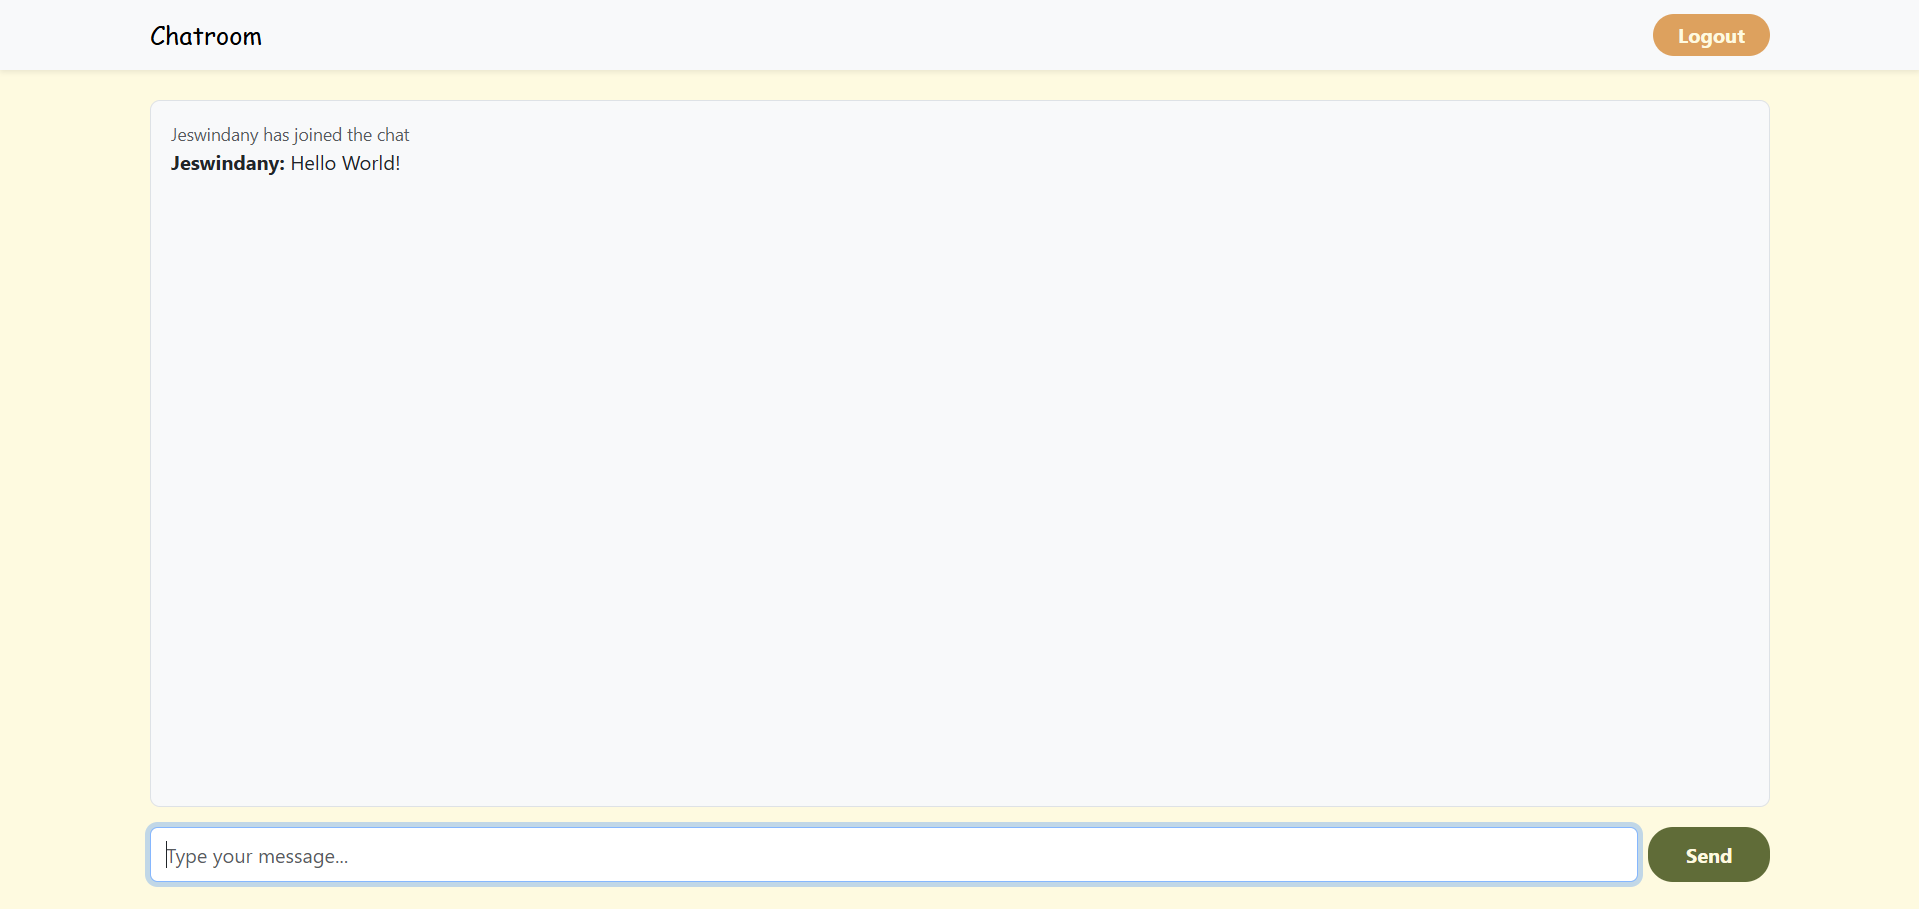
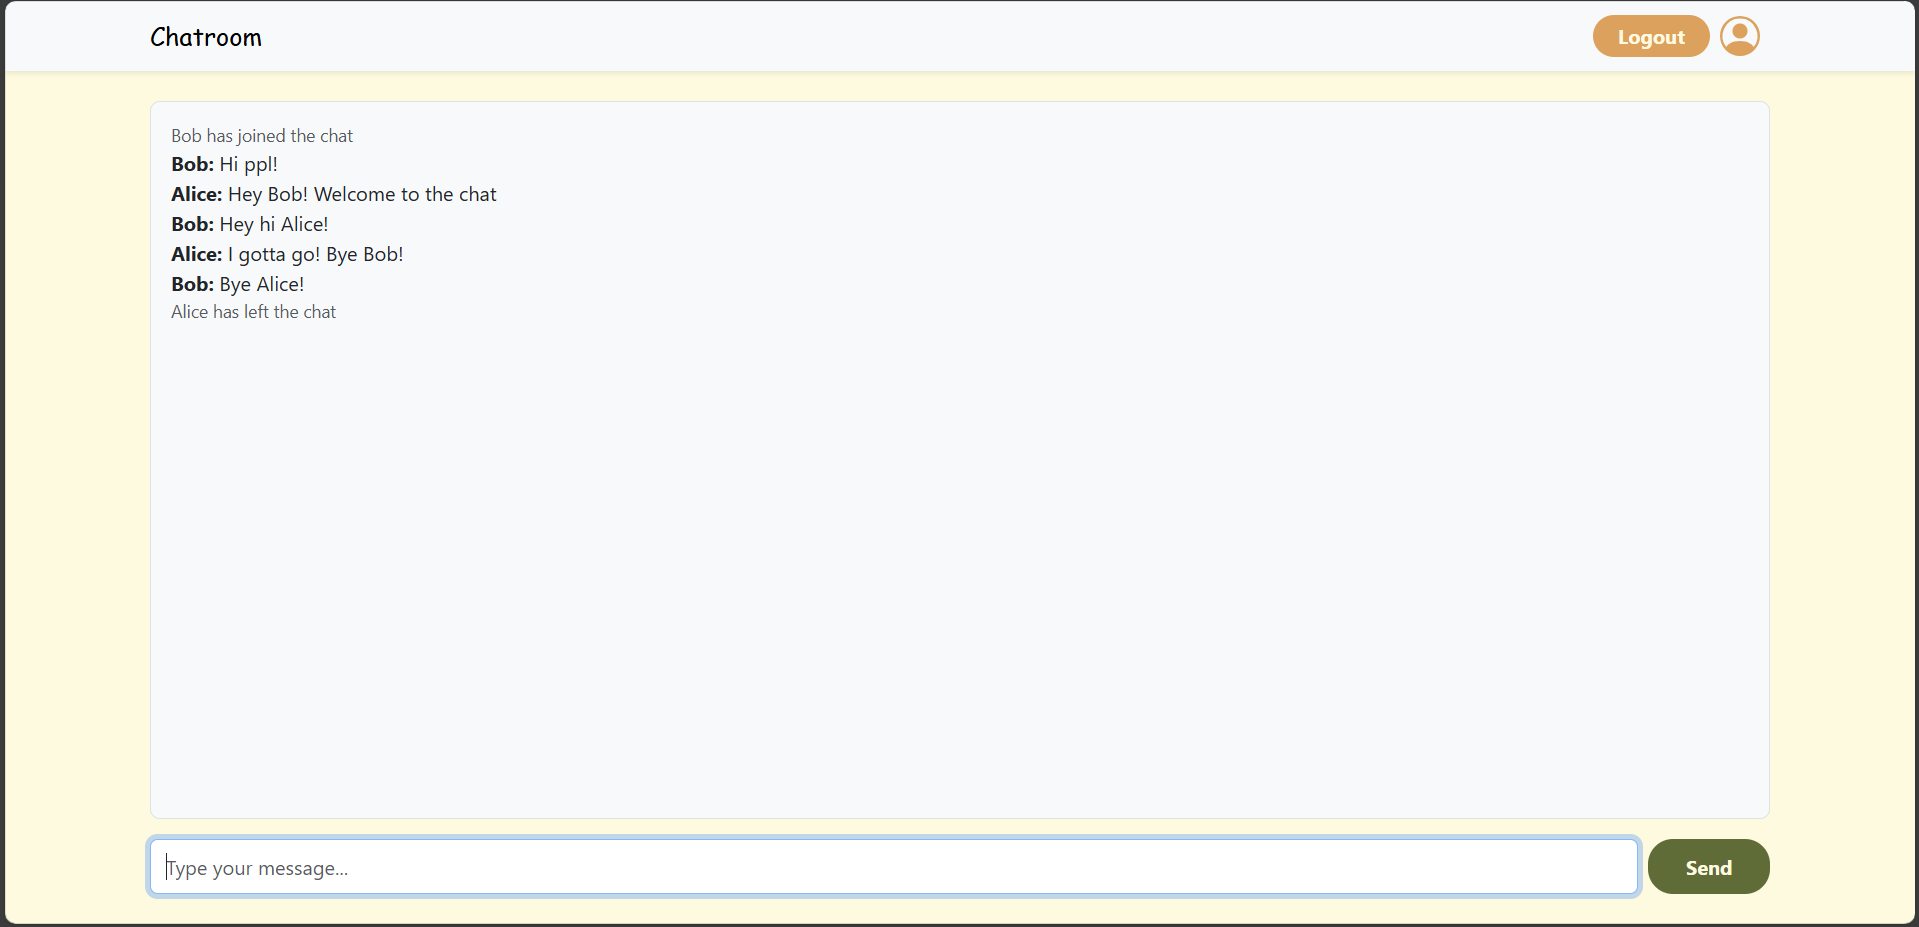
Add forgot password and change name features

diff --git a/app.js b/app.js
@@ -35,10 +35,10 @@ app.use(
     secret: process.env.SECRET,
     resave: false,
     saveUninitialized: false,
-    store: MongoStore.create({
-      mongoUrl: process.env.MONGO_URL,
-      collectionName: "sessions",
-    }),
+    // store: MongoStore.create({
+    //   mongoUrl: process.env.MONGO_URL,
+    //   collectionName: "sessions",
+    // }),
     cookie: {
       maxAge: 1000 * 60 * 60 * 24 * 7,
     },
@@ -230,6 +230,39 @@ app.get("/chatroom", (req, res) => {
     res.redirect("/login");
   }
 });
+
+app
+  .route("/profile")
+  .get(
+    catchAsync(async (req, res) => {
+      if (req.session.currentUser) {
+        const user = await User.findById(req.session.currentUser.id);
+        return res.render("profile", { user });
+      } else {
+        req.flash("error", "Please login before entering profile!");
+        res.redirect("login");
+      }
+    })
+  )
+  .post(
+    catchAsync(async (req, res) => {
+      if (!req.session.currentUser) {
+        req.flash("error", "Session expired! Please login again");
+        return res.redirect("login");
+      }
+
+      const { displayName } = req.body;
+      await User.findByIdAndUpdate(req.session.currentUser.id, {
+        displayName,
+      });
+
+      req.flash(
+        "success",
+        "Name change successful! It will take effect from your next login!"
+      );
+      res.redirect("/chatroom");
+    })
+  );
 
 app.post("/logout", (req, res) => {
   req.session.destroy(() => {

diff --git a/public/style.css b/public/style.css
@@ -141,3 +141,22 @@ body {
 .navbar-brand {
   font-family: "Dancing Script", cursive;
 }
+
+.profile-img {
+  cursor: pointer;
+  color: var(--secondary-light);
+}
+
+.profile-img:hover {
+  color: var(--secondary-dark);
+}
+
+.card-subtitle {
+  font-size: medium;
+}
+
+.profile-body {
+  display: flex;
+  flex-direction: column;
+  align-items: center;
+}
